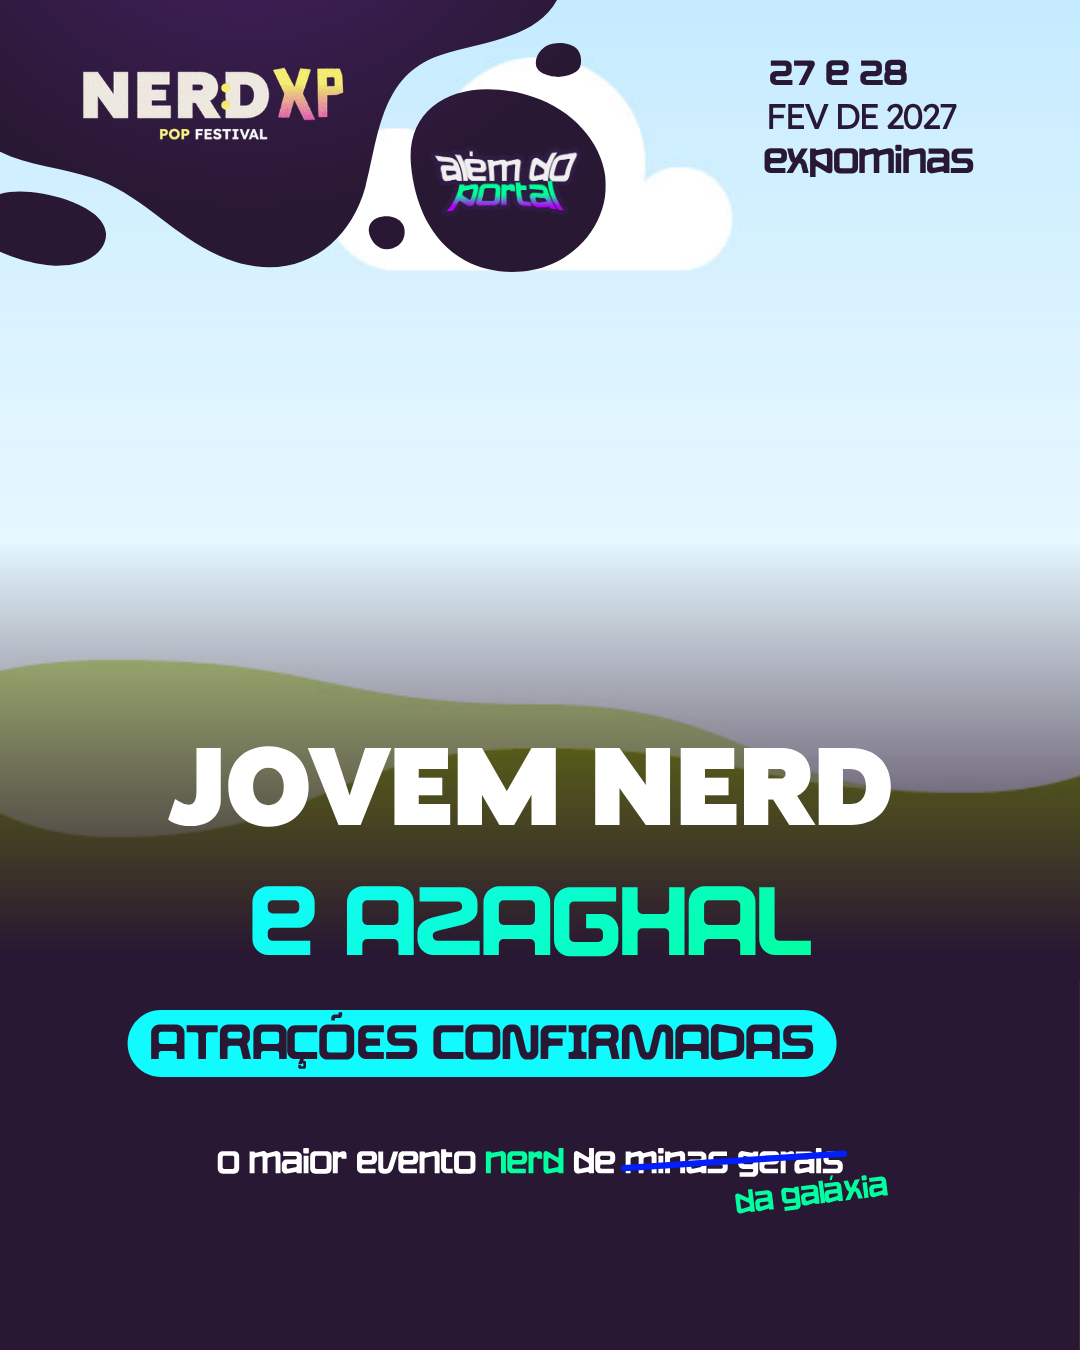
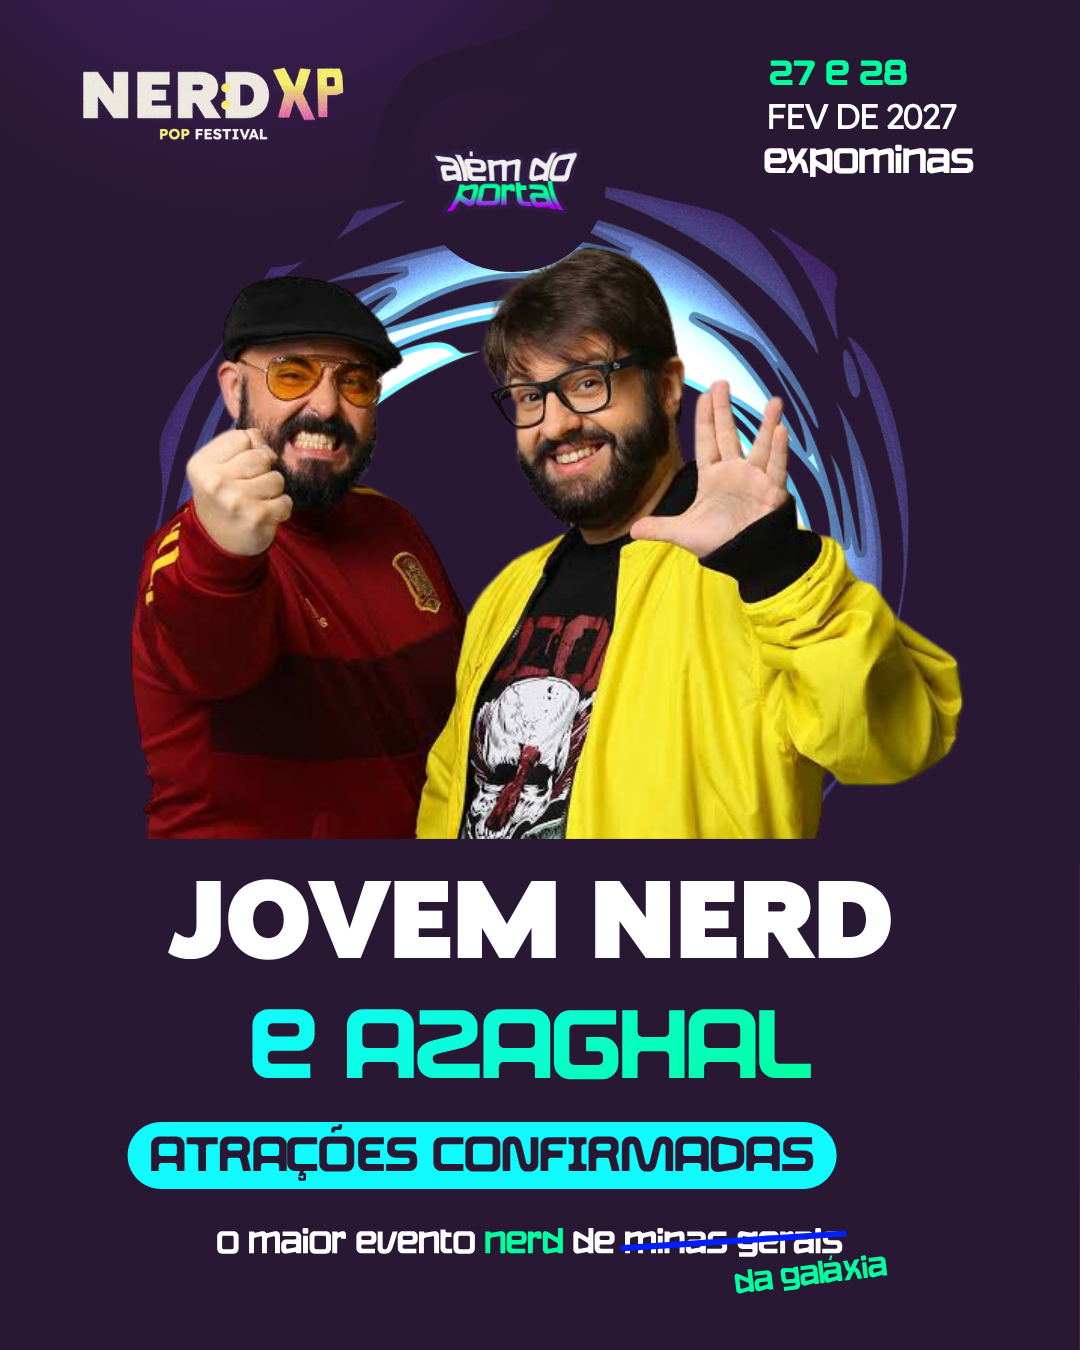
Carrossel Jovem Nerd e Azaghal: aplica fotos da dupla
Capa com recorte da dupla sobre o portal neon e fundo berinjela; slide 2
com a foto de estúdio no blob. Atualiza PNGs e a ficha (status, alt text
e QA).

Claude-Session: https://claude.ai/code/session_01UfNEbhVf5orTNUmaXSyZor

diff --git a/entregas/2026-10-08_carrossel_atracao-jovem-nerd-azaghal/LEGENDA.md b/entregas/2026-10-08_carrossel_atracao-jovem-nerd-azaghal/LEGENDA.md
@@ -7,14 +7,15 @@
 | Modelo | Template "Atração confirmada", pág. 202 do mestre `DAHF08WuL5g` |
 | Canva | Temporário editável `DAHXbnFMeGM` — [abrir](https://www.canva.com/d/bRrtgoXC4WXqsSp). Entra no vol. 3 (`DAHWoX0Q66o`) depois de trocar as fotos |
 | Publicação | [A CONFIRMAR] (sugestão: 12h ou 19h) |
-| Status | **Rascunho**: faltam as fotos oficiais e o dia da participação |
+| Fotos | Foto de estúdio da dupla enviada pela equipe (678×452). Capa: recorte sem fundo (`MAHXbw28GKU`) sobre o portal neon. Slide 2: foto original no blob (`MAHXb3VSEtQ`). Crédito do fotógrafo [A CONFIRMAR] |
+| Status | **Arte completa**. Falta só confirmar o dia da participação e os @ da collab |
 
 ## Texto da arte
 
 **Slide 1 — capa**
 ```
-[topo]   NERD:XP · além do portal · 27 e 28 / FEV DE 2027 / expominas
-[foto]   foto oficial da dupla (moldura do portal; hoje é o placeholder da paisagem)
+[topo]   NERD:XP · além do portal · 27 e 28 (verde) / FEV DE 2027 / expominas
+[foto]   recorte da dupla na frente do portal neon, fundo berinjela #291833
          JOVEM NERD               ← branco
          [e AZAGHAL]              ← ciano #11FAFE (destaque)
          (ATRAÇÕES CONFIRMADAS)   ← pill ciano
@@ -28,7 +29,7 @@ Alexandre Ottoni (Jovem Nerd) e Deive Pazos (Azaghal) criaram o Jovem Nerd
 em 2002 e o NerdCast em 2006, um dos podcasts mais ouvidos do Brasil. Há mais
 de 20 anos a dupla acompanha gerações de nerds. Agora, eles atravessam o
 portal do NXP 2027.
-[blob com foto]  foto individual ou em ação (placeholder da paisagem)
+[blob com foto]  foto de estúdio da dupla, os dois enquadrados
 ```
 
 **Slide 3 — assinatura + CTA**
@@ -56,7 +57,7 @@ gerações de nerds, chegam ao NerdVerso no maior evento nerd da galáxia.
 
 - **Primeiro comentário**: "Qual é o seu NerdCast favorito de todos os tempos? Conta aqui 👇"
 - **Collab / marcações**: @jovemnerd + perfis pessoais dos dois [A CONFIRMAR @]
-- **Alt text**: "Carrossel do Nerd Experience 2027. Slide 1: foto de Jovem Nerd e Azaghal com o título 'Jovem Nerd e Azaghal — atrações confirmadas'. Slide 2: 'Os criadores do NerdCast' e uma breve biografia da dupla. Slide 3: logo do NXP, selo 'além do portal', datas 27 e 28 de fevereiro de 2027 no Expominas e 'ingressos disponíveis, link na bio'."
+- **Alt text**: "Carrossel do Nerd Experience 2027. Slide 1: Jovem Nerd e Azaghal sorrindo na frente de um portal neon, Azaghal com o punho erguido e Jovem Nerd fazendo a saudação vulcana, com o título 'Jovem Nerd e Azaghal — atrações confirmadas'. Slide 2: 'Os criadores do NerdCast' e uma breve biografia da dupla. Slide 3: logo do NXP, selo 'além do portal', datas 27 e 28 de fevereiro de 2027 no Expominas e 'ingressos disponíveis, link na bio'."
 
 ## Desdobramentos
 
@@ -65,9 +66,9 @@ gerações de nerds, chegam ao NerdVerso no maior evento nerd da galáxia.
 
 ## QA
 
-- ❌ **Fotos**: as molduras do slide 1 e do blob do slide 2 ainda estão com a paisagem do template. Trocar pelas fotos oficiais (press kit da dupla). Bloqueia a publicação.
+- ✅ **Fotos** aplicadas nos dois slides. Atenção: a foto enviada tem 678×452 e foi ampliada na capa, então pode ficar um pouco suave no zoom. Se houver versão em alta, é só trocar o fill no Canva.
 - ❌ **Dia da participação**: 27/02, 28/02 ou os dois? Quando confirmar, dá pra trocar o "27 e 28" do topo do slide 1 por uma pill com o dia, como no post do Érico Borgo.
 - ❌ **@ da collab**: conferir os perfis oficiais antes de marcar.
 - ✅ Data, local, grafia (NerdVerso, Nerd Experience, NerdCast), CTA único, ≤ 2 cores de destaque, texto da capa ≤ 25 palavras, ponto de entrada único (nome da dupla).
 
-**Pendências**: fotos oficiais, dia da participação, @ da collab, data/horário de publicação.
+**Pendências**: dia da participação, @ da collab, data/horário de publicação.
